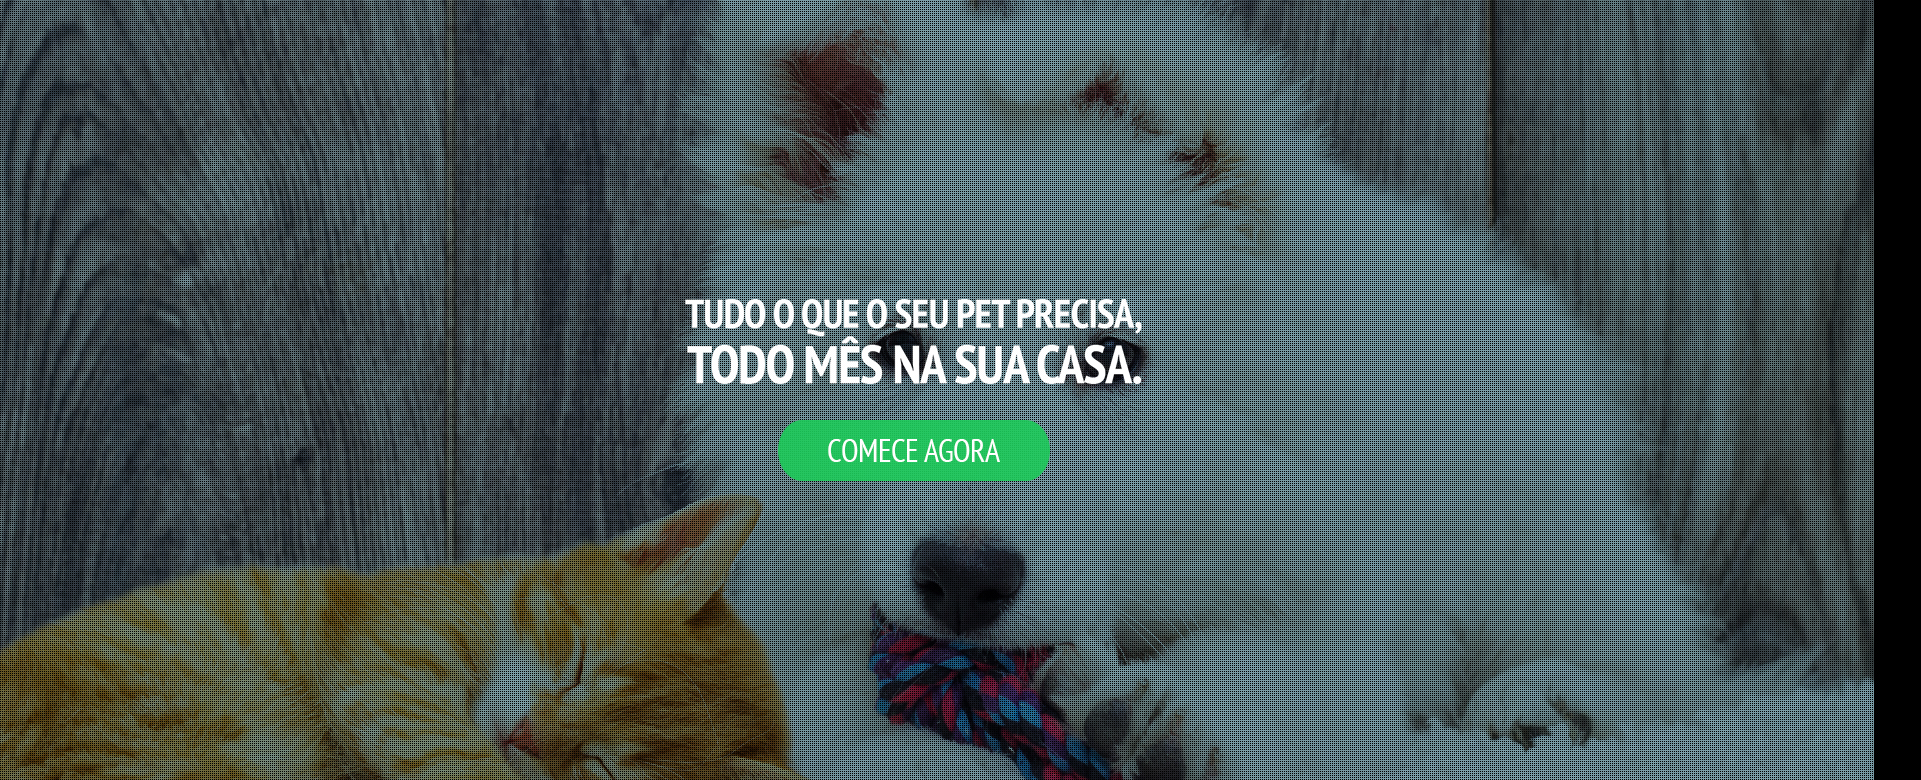
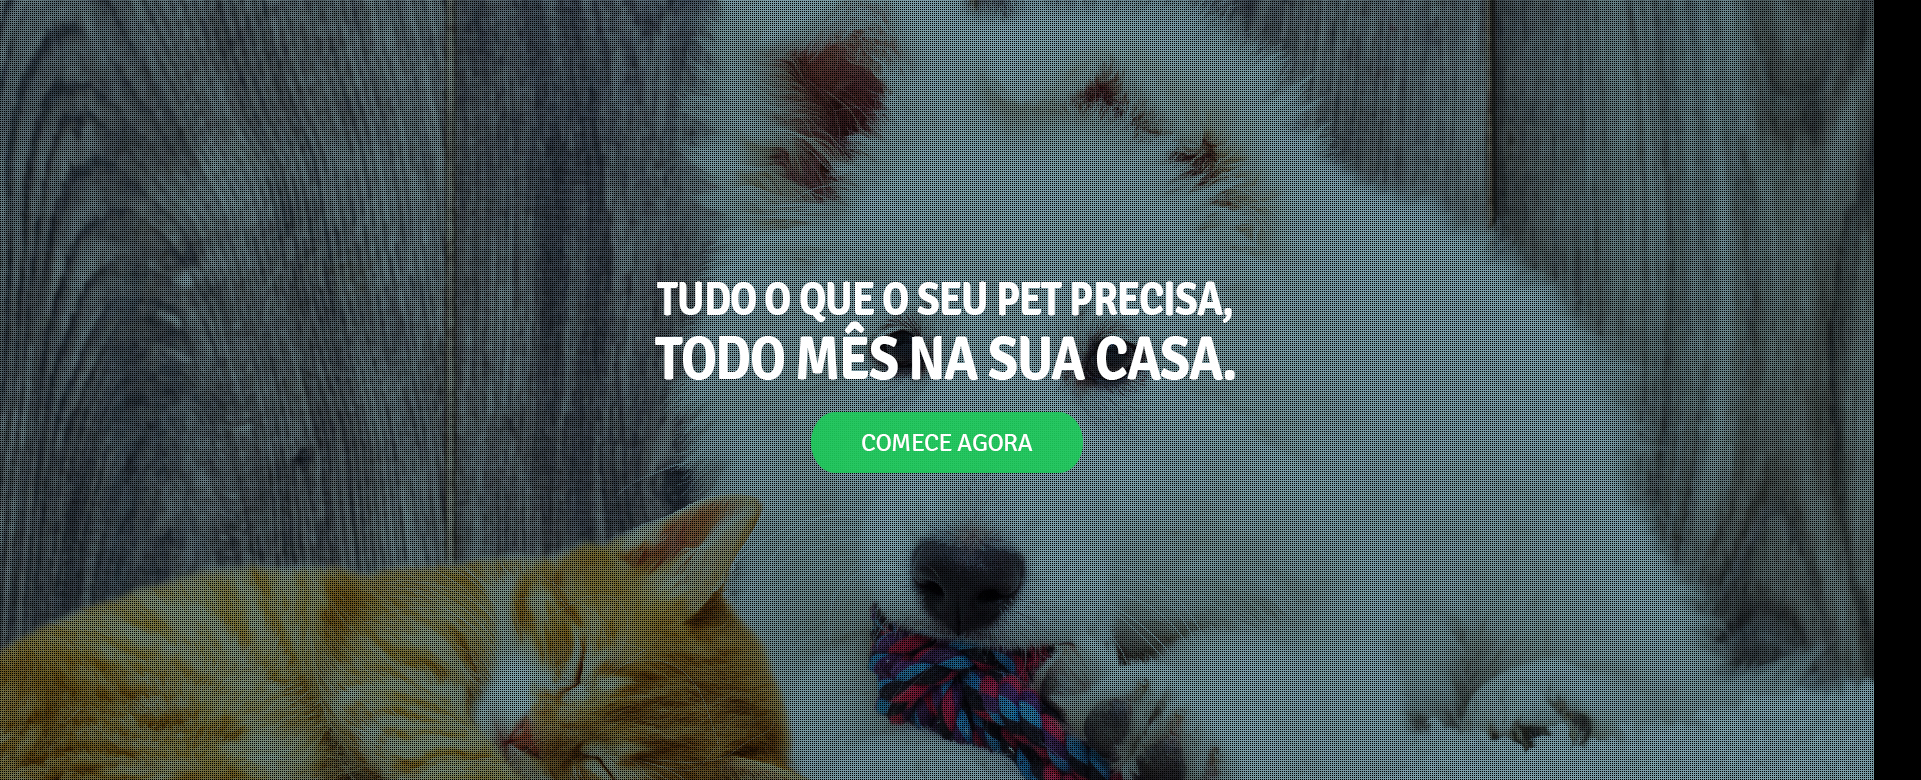
adicionando secao como funciona

Changed region(s): [[0.3436, 0.3385, 0.6559, 0.4923], [0.406, 0.5231, 0.5622, 0.6154]]

diff --git a/app/assets/stylesheets/_page-home.scss b/app/assets/stylesheets/_page-home.scss
@@ -1,4 +1,58 @@
+// Banner
 .home-banner {
 	height: 680px;
 	background: url(banner.jpg) center;
 }
+
+
+// Como Funciona
+.how-it-works {
+	margin: 50px 0;
+	&__title {
+		@include text(700, 45px, $primaryColor, uppercase);
+		text-align: center;
+		margin-bottom: 0;
+	}
+	&__text {
+		@include text(300, 20px, #757575, none);
+		text-align: center;
+		span {
+			color: $primaryColor;
+		}
+	}
+	&__action {
+		display: flex;
+		align-items: center;
+		justify-content: center;
+	}
+}
+
+.how-it-works-list {
+	display: flex;
+	justify-content: center;
+	list-style-type: none;
+	padding: 0;
+	margin: 50px 0;
+}
+
+.how-it-works-item {
+	text-align: center;
+	flex: 0 0 25%;
+	margin: 0 50px;
+	&__icon {
+		font-size: 100px;
+		margin-bottom: 30px;
+		display: block;
+	}
+	&__step {
+		@include text(400, 10px, #757575, uppercase);
+		text-align: center;
+		margin: 0 0 5px;
+	}
+	&__title {
+		@include text(400, 15px, #757575, uppercase);
+		margin: 0;
+	}
+}
+
+

diff --git a/app/assets/stylesheets/_header.scss b/app/assets/stylesheets/_header.scss
@@ -27,14 +27,14 @@
 		}
 		&--login {
 			border: 1px solid $primaryColor;
-			border-radius: 3px;
+			border-radius: 20px;
 			margin-left: 20px;
 		}
 		&--sign-up {
 			margin-left: 20px;
 			background: $primaryColor;
 			border: 1px solid $primaryColor;
-			border-radius: 3px;
+			border-radius: 20px;
 			&:link, &:focus, &:visited {
 				color: #fff;
 			}

diff --git a/app/assets/stylesheets/_form.scss b/app/assets/stylesheets/_form.scss
@@ -1,0 +1,11 @@
+.btn {
+	margin-left: 20px;
+	background: $primaryColor;
+	border: 1px solid $primaryColor;
+	border-radius: 30px;
+	padding: 15px 50px;
+	&:link, &:focus, &:visited {
+		@include text(300, 25px, #fff, uppercase);
+		text-decoration: none;
+	}
+}

diff --git a/app/assets/stylesheets/_normalize.scss b/app/assets/stylesheets/_normalize.scss
@@ -26,6 +26,7 @@ html {
 
 body {
   margin: 0;
+  font-family: 'Signika', sans-serif;
 }
 
 /**

diff --git a/app/assets/stylesheets/application.scss b/app/assets/stylesheets/application.scss
@@ -19,6 +19,7 @@
 
 // Globals
 @import "grid";
+@import "form";
 
 // Layout
 @import "header";
